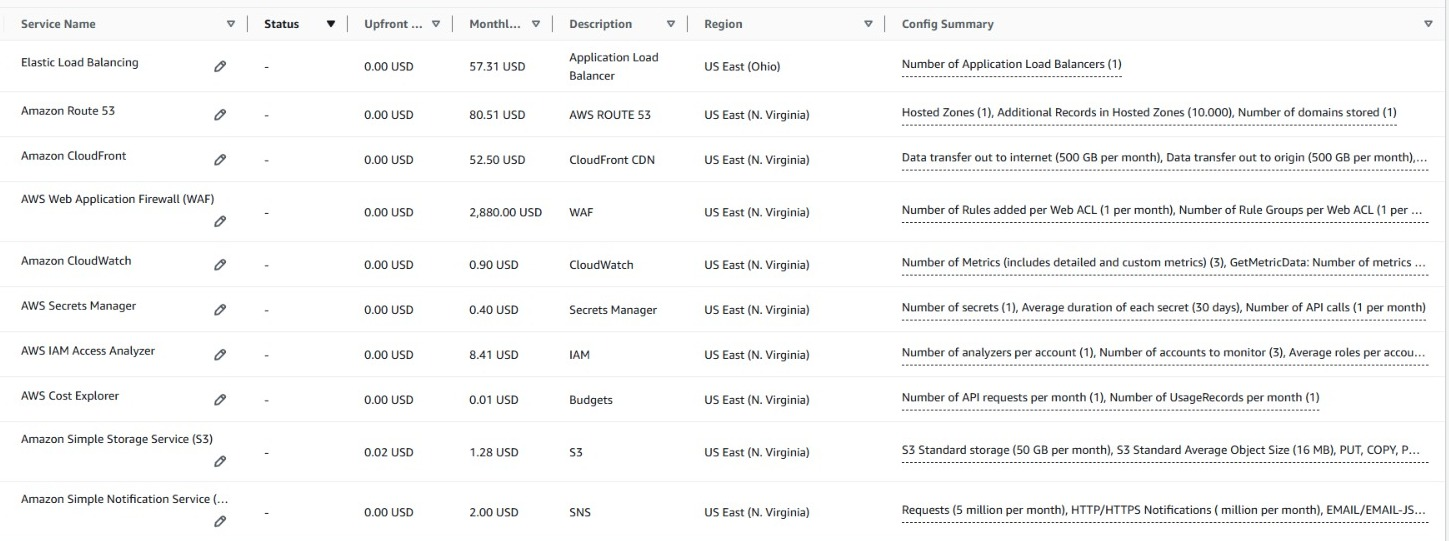
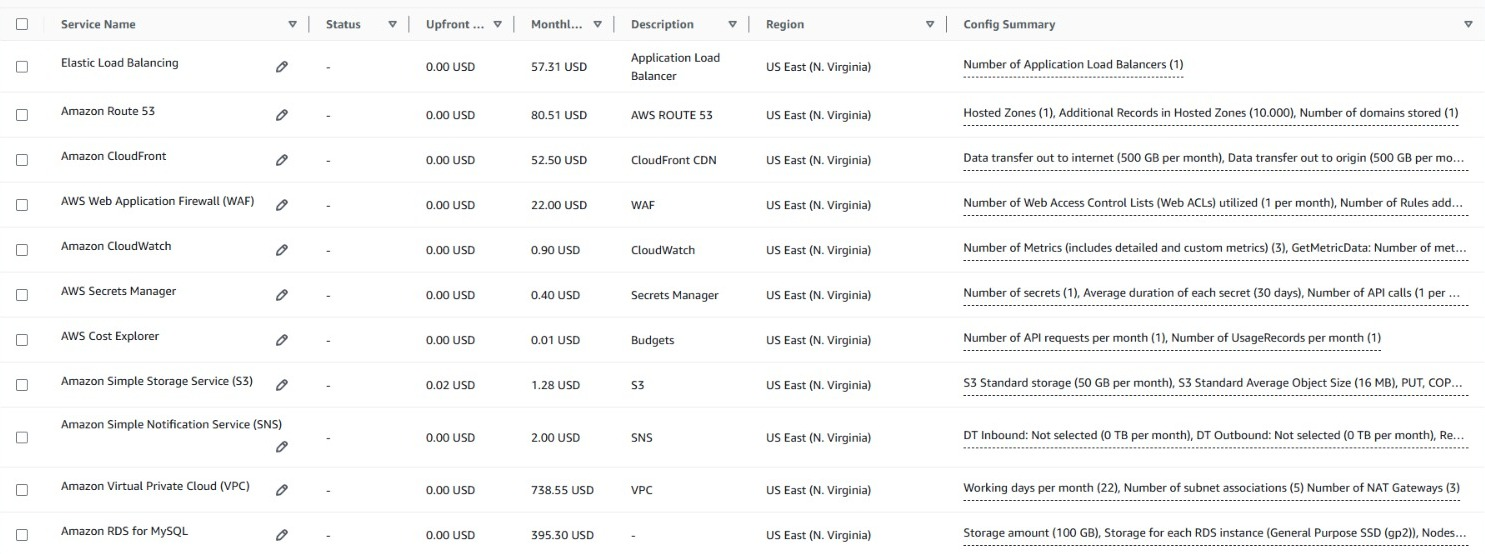
[Add] Finishing the topics of second part

diff --git a/detalhes-levantamento-etapa2.md b/detalhes-levantamento-etapa2.md
@@ -1,0 +1,32 @@
+## Detalhes do levantamento de custos da Infra - Etapa 2
+
+# Estimativa de Preços da AWS (29/01/2025)
+
+## Resumo da Estimativa
+
+| **Descrição**               | **Custo**     |
+| --------------------------- | ------------- |
+| **Custo Inicial**           | 0,02 USD      |
+| **Custo Mensal**            | 1.350,76 USD  |
+| **Custo Total em 12 meses** | 16.209,14 USD |
+| **Inclui Custo Inicial**    | Sim           |
+
+## Estimativa Detalhada
+
+| **Nome do Serviço**                      | **Região**            | **Custo Inicial** | **Custo Mensal** | **Descrição**             | **Resumo da Configuração**                                                                                                                                                                                                                                         |
+| ---------------------------------------- | --------------------- | ----------------- | ---------------- | ------------------------- | ------------------------------------------------------------------------------------------------------------------------------------------------------------------------------------------------------------------------------------------------------------------ |
+| Elastic Load Balancing                   | US East (N. Virginia) | 0,00 USD          | 57,31 USD        | Application Load Balancer | Número de Application Load Balancers (1)                                                                                                                                                                                                                           |
+| Amazon Route 53                          | US East (N. Virginia) | 0,00 USD          | 80,51 USD        | AWS Route 53              | Hosted Zones (1), Registros adicionais em Hosted Zones (10.000), Número de domínios armazenados (1)                                                                                                                                                                |
+| Amazon CloudFront                        | US East (N. Virginia) | 0,00 USD          | 52,50 USD        | CloudFront CDN            | Transferência de dados para a internet (500 GB por mês), Transferência de dados para o origem (500 GB por mês), Número de requisições (HTTPS) (4.800 por mês)                                                                                                      |
+| AWS Web Application Firewall (WAF)       | US East (N. Virginia) | 0,00 USD          | 22,00 USD        | WAF                       | Número de Web Access Control Lists (1 por mês), Número de Regras adicionadas por Web ACL (8 por mês), Número de Rule Groups por Web ACL (1 por mês), Número de Regras dentro de cada Rule Group (1 por mês), Número de Managed Rule Groups por Web ACL (1 por mês) |
+| Amazon CloudWatch                        | US East (N. Virginia) | 0,00 USD          | 0,90 USD         | CloudWatch                | Número de Métricas (3), GetMetricData (3), GetMetricWidgetImage (1), Outras requisições de API (1)                                                                                                                                                                 |
+| AWS Secrets Manager                      | US East (N. Virginia) | 0,00 USD          | 0,40 USD         | Secrets Manager           | Número de secrets (1), Duração média de cada secret (30 dias), Número de chamadas de API (1 por mês)                                                                                                                                                               |
+| AWS Cost Explorer                        | US East (N. Virginia) | 0,00 USD          | 0,01 USD         | Budgets                   | Número de requisições API por mês (1), Número de UsageRecords por mês (1)                                                                                                                                                                                          |
+| Amazon Simple Storage Service (S3)       | US East (N. Virginia) | 0,02 USD          | 1,28 USD         | S3                        | Armazenamento S3 Standard (50 GB por mês), Requisições PUT, COPY, POST, LIST (5), Requisições GET, SELECT (5), Dados retornados pelo S3 Select (50 GB por mês)                                                                                                     |
+| Amazon Simple Notification Service (SNS) | US East (N. Virginia) | 0,00 USD          | 2,00 USD         | SNS                       | Requisições (5 milhões por mês), Notificações HTTP/HTTPS (milhões por mês)                                                                                                                                                                                         |
+| Amazon Virtual Private Cloud (VPC)       | US East (N. Virginia) | 0,00 USD          | 738,55 USD       | VPC                       | Dias úteis por mês (22), Número de associações de sub-redes (5), Número de NAT Gateways (3)                                                                                                                                                                        |
+| Amazon RDS for MySQL                     | US East (N. Virginia) | 0,00 USD          | 395,30 USD       | RDS                       | Armazenamento (100 GB), Tipo de instância (db.r5.large), Opção de implantação (Multi-AZ)                                                                                                                                                                           |
+
+---
+
+**Nota**: O AWS Pricing Calculator fornece apenas uma estimativa dos custos da AWS e não inclui impostos que possam ser aplicáveis. Seus custos reais dependem de uma variedade de fatores, incluindo o uso real dos serviços da AWS.

diff --git a/README.md b/README.md
@@ -278,9 +278,10 @@ A arquitetura utiliza dos seguintes itens para garantir a segurança:
 
 ![alt text](CalculadoraEtapa2.png)
 
-Valor total por mês: **US$ 3,821.87**
+Valor total por mês: **US$ 1,350.76**
 
-[Link levantamento](https://calculator.aws/#/estimate?id=b40b2c23586cedadf4a3ecc92bdc84463720ebae)
+⬇[Link levantamento](https://calculator.aws/#/estimate?id=42ea4e6544f2f88c72fa35313b5fd34d467b53d6)
+⬇[Detalhes do levantamento](detalhes-levantamento-etapa2.md)
 
 ---
 
